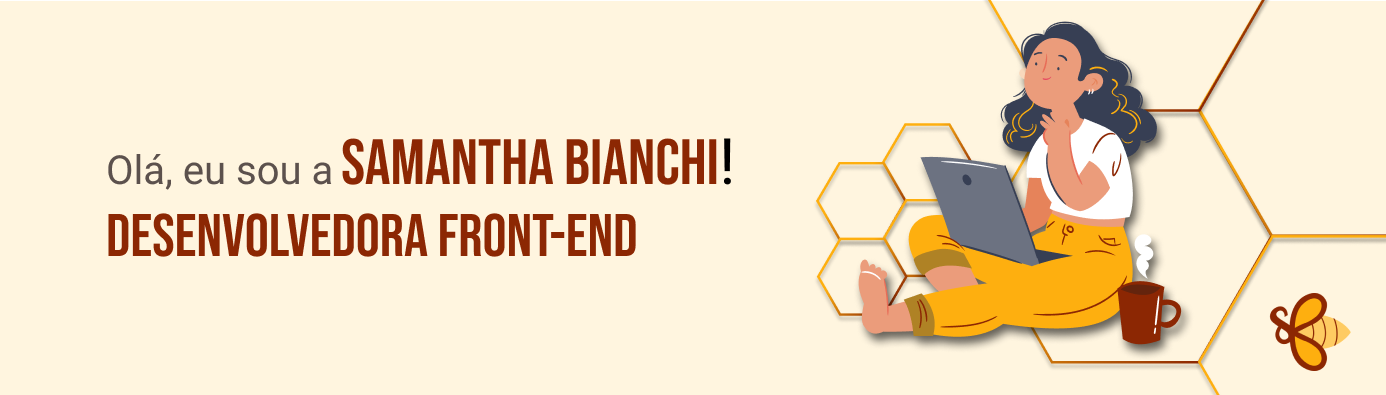
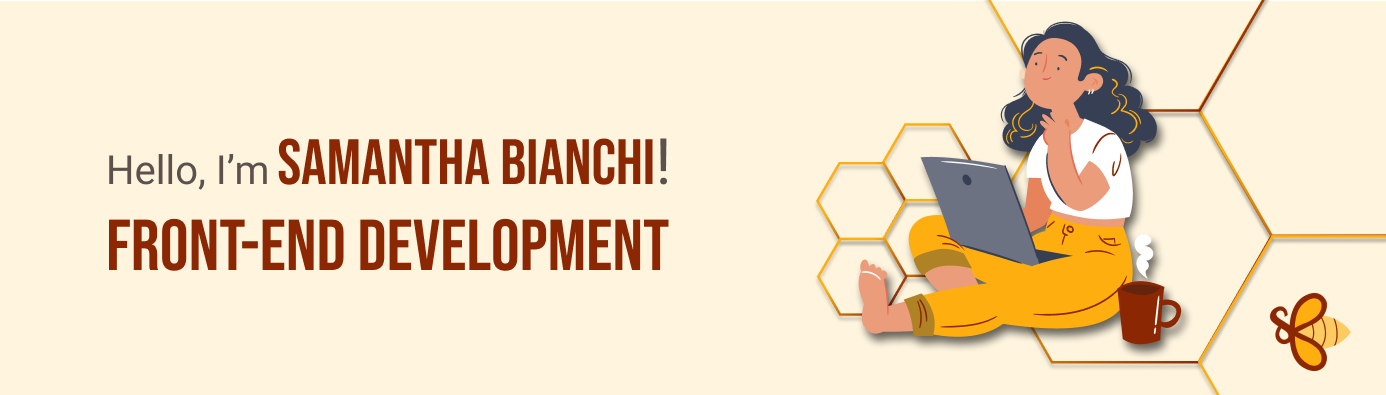
fix: update my readme

Changed region(s): [[0.062, 0.5165, 0.4964, 0.6987], [0.062, 0.3342, 0.5274, 0.4861]]

diff --git a/README.md b/README.md
@@ -1,26 +1,28 @@
 <img src="./Banner-github.png" alt="">
 
-### Aqui você pode apreciar alguns dos meus projetos pessoais, colaborativos e de hackathons, além dos desenvolvidos na jornada do Bootcamp de Desenvolvimento Web Full-Stack da Resilia Educação.
+<br>
+<br>
 
-- 👩💻 Sou Desenvolvedora Front-end
-- 🎓 Formada no curso técnico de Desenvolvimento Web Full-Stack na Resilia Educação - concluído em março/2021
-- 🤯 Viciada em participar de hackathons
-- 🎬 Nas horas vagas sou a louca das séries
-- Recentemente nadei na Piscina da 42
-<h2 aLign="left"> <a href="#"><img src="https://nadei.42sp.org.br/img/InsigneaP3.png" width="100px"/>
+I'm Samantha Bianchi, my career began as a graphic designer and in 2021 I started my transition by taking a full stack web development bootcamp. At the end of the course, I participated in a hackathon and the project created with my team was awarded second place. After that, it became an addiction, and I've already participated in 5 more and had the pleasure of being awarded first place in another project.
+In August 2023, I swam in the 42sp pool in Brazil, and I'm currently in the Ada selection process with Santander Coders and I finished the first part of the introductory Data Engineering course, I'm also completing the ONE Oracle front end development course.
 
---- 
-## 📫 Você pode entrar em contato comigo através do meu:
+<br>
+<br>
+
+## ⚙ My Skills:
+<img src="https://img.shields.io/badge/HTML5-E34F26?style=for-the-badge&logo=html5&logoColor=white"> <img src="https://img.shields.io/badge/CSS3-1572B6?style=for-the-badge&logo=css3&logoColor=white"> <img src="https://img.shields.io/badge/JavaScript-323330?style=for-the-badge&logo=javascript&logoColor=F7DF1E"> <img src="https://img.shields.io/badge/React-20232A?style=for-the-badge&logo=react&logoColor=61DAFB/"> <img src="https://img.shields.io/badge/Bootstrap-563D7C?style=for-the-badge&logo=bootstrap&logoColor=white"> <img src="https://img.shields.io/badge/Node.js-43853D?style=for-the-badge&logo=node.js&logoColor=white"> <img src="https://img.shields.io/badge/Git-F05032?style=for-the-badge&logo=git&logoColor=white"> <img src="https://img.shields.io/badge/GitHub-100000?style=for-the-badge&logo=github&logoColor=white"> 
+
+<br>
+
+## 📫 Contact Me:
  
  <a href="https://www.linkedin.com/in/sahbianchi/"><img src="https://img.shields.io/badge/-LinkedIn-%230077B5?style=for-the-badge&logo=linkedin&logoColor=white" target="_blank"></a> 
  <a href = "mailto:sahlsb2@gmail.com"><img src="https://img.shields.io/badge/Gmail-D14836?style=for-the-badge&logo=gmail&logoColor=white" target="_blank"></a>
  <a href = "https://api.whatsapp.com/send/?phone=5521971071938&text&app_absent=0"><img src="https://img.shields.io/badge/WhatsApp-25D366?style=for-the-badge&logo=whatsapp&logoColor=white"></a>
  
+<br>
 
-## Minhas Competências
-<img src="https://img.shields.io/badge/HTML5-E34F26?style=for-the-badge&logo=html5&logoColor=white"> <img src="https://img.shields.io/badge/CSS3-1572B6?style=for-the-badge&logo=css3&logoColor=white"> <img src="https://img.shields.io/badge/JavaScript-323330?style=for-the-badge&logo=javascript&logoColor=F7DF1E"> <img src="https://img.shields.io/badge/React-20232A?style=for-the-badge&logo=react&logoColor=61DAFB/"> <img src="https://img.shields.io/badge/Bootstrap-563D7C?style=for-the-badge&logo=bootstrap&logoColor=white"> <img src="https://img.shields.io/badge/Node.js-43853D?style=for-the-badge&logo=node.js&logoColor=white"> <img src="https://img.shields.io/badge/Git-F05032?style=for-the-badge&logo=git&logoColor=white"> <img src="https://img.shields.io/badge/GitHub-100000?style=for-the-badge&logo=github&logoColor=white"> 
-
----
+## 🔥 GitHub Stats:
 
 <div align="center">
  
